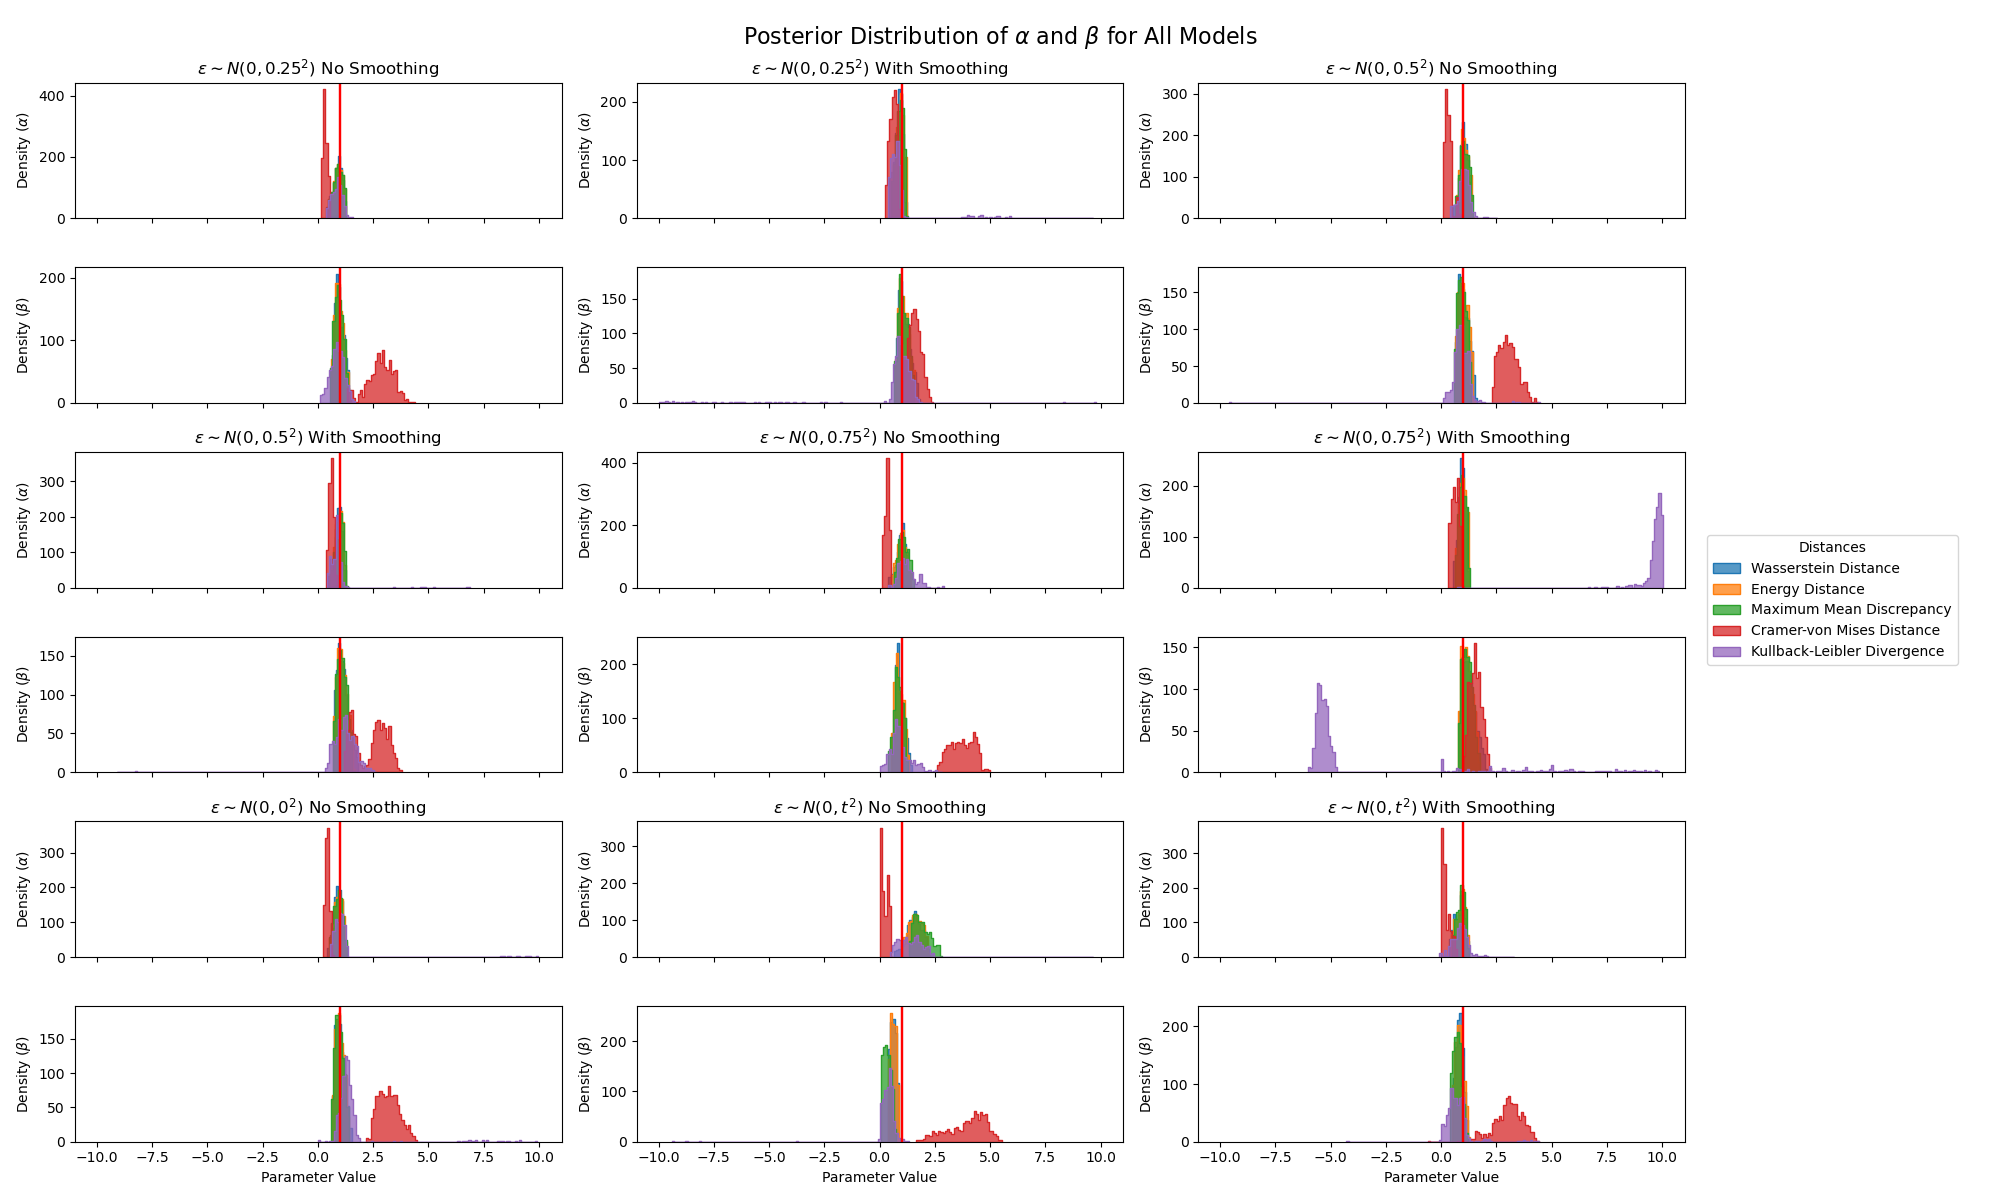
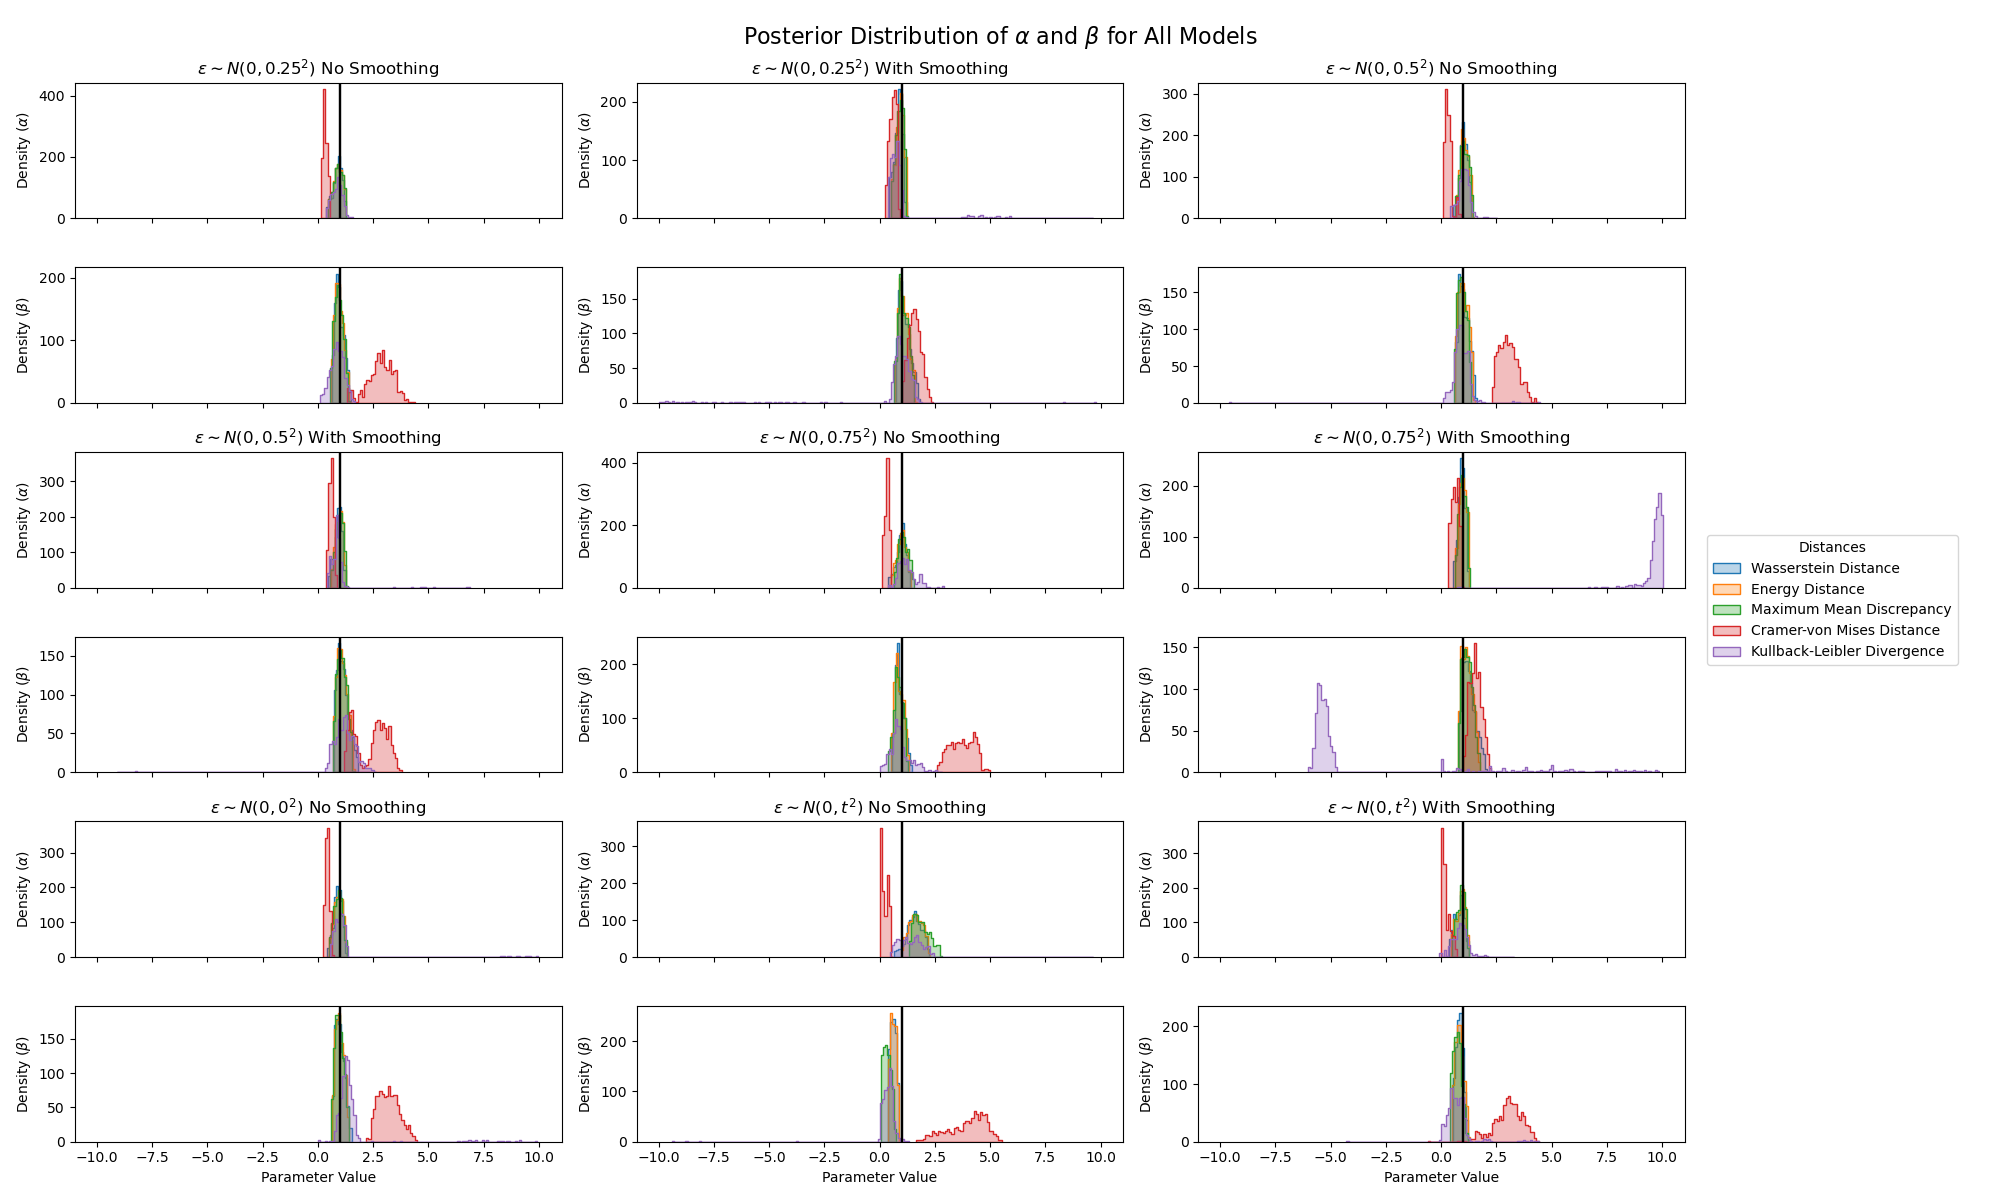
changed colour of line in posterior plots

diff --git a/lotka_volterra/run_posterior_dist.py b/lotka_volterra/run_posterior_dist.py
@@ -94,12 +94,12 @@ for idx, model in enumerate(models):
         alpha, beta = threshold_data[:, 0], threshold_data[:, 1]
         
         # Plot alpha and beta
-        sns.histplot(ax=ax_alpha, data=alpha, element="step", fill=True, label=DISTANCES[i - 2], binwidth=0.1)
-        sns.histplot(ax=ax_beta, data=beta, element="step", fill=True, label=DISTANCES[i - 2], binwidth=0.1)
+        sns.histplot(ax=ax_alpha, data=alpha, element="step", fill=True, label=DISTANCES[i - 2], binwidth=0.1, alpha=0.3)
+        sns.histplot(ax=ax_beta, data=beta, element="step", fill=True, label=DISTANCES[i - 2], binwidth=0.1, alpha=0.3)
         
         # Add vertical lines
-        ax_alpha.axvline(1, c='r')
-        ax_beta.axvline(1, c='r')
+        ax_alpha.axvline(1, c='k')
+        ax_beta.axvline(1, c='k')
         
     # Set titles and labels for individual plots
     model_name = model.split("_")
